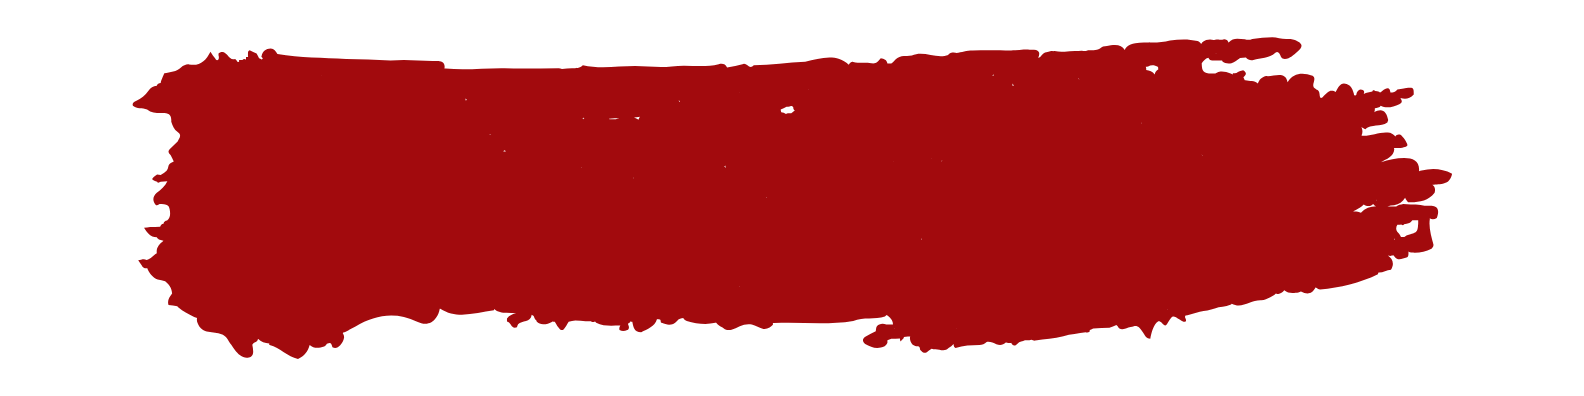
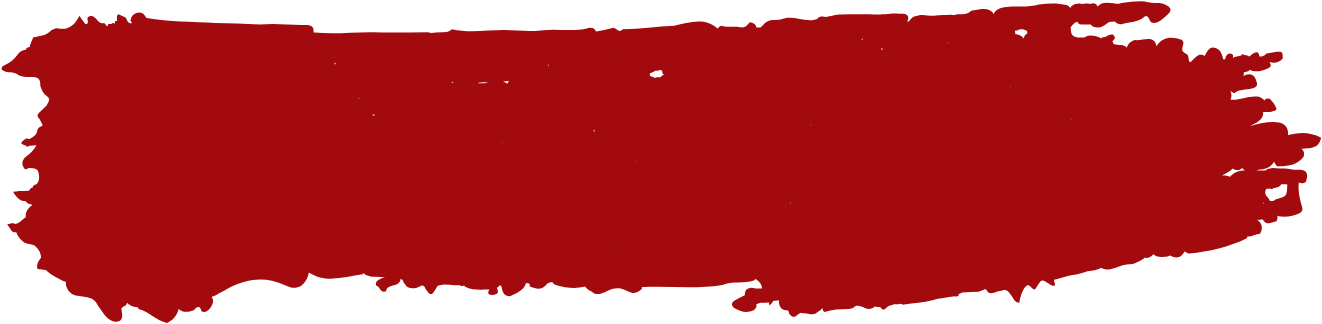
initial layout #4

Changed region(s): [[0.0, 0.0, 1.0, 1.0], [0.4962, 0.216, 0.5272, 0.2469]]

diff --git a/index.html b/index.html
@@ -37,7 +37,7 @@
         </div>
         <h1>MAKE YOUR BODY</h1>
         <h1>FIT & PERFECT</h1>
-        <button class="button-classes">OUR CLASSES <img src="assets/icons/rightChevron.png" alt="rightArrow" class="right-arrow"></button>
+        <button class="button-classes">OUR CLASSES<img src="assets/icons/rightChevron.png" alt="rightArrow" class="right-arrow"></button>
     </div>
     <img src="assets/mainBanner.jpg" alt="Woman Boxing" class="main-banner-img">
 </div>
@@ -55,11 +55,25 @@
     </div>
     <div class="card">
         <img src="assets/icons/nutrition.png" alt="nutrition" class="card-icon">
-        <h3 class="card-title">NUTRITION</h3>
+        <h4 class="card-title">NUTRITION</h4>
         <p class="card-text">Our team will work with you to create a personalized meal pian that helps you reach your specific health goals.</p>
     </div>
 </div>
 
+<div class="about-container">
+    <div class="about-left">
+        <div class="title">
+            <h2 class="title-text-stroke-2">OUR MISSION</h2>
+            <img src="assets/brushStrokes/7.png" alt="white stroke" class="brush-stroke-2">
+        </div>
+        <h2 class="about-secondary-title">Take Your Health And Body To Next Level</h2>
+        <p class="about-text">Take your health and body to the next level with our comprehensive program designed to help you reach your fitness goals.</p>
+        <button class="button-classes">TAKE A TOUR<img src="assets/icons/rightChevron.png" alt="rightArrow" class="right-arrow"></button>
+    </div>
+    <div class="about-right">
+        <img src="assets/runningMan2.png" alt="running man" class="running-man-img">
+    </div>
+</div>
 
 
 <footer></footer>

diff --git a/styles/index.css b/styles/index.css
@@ -90,7 +90,7 @@ li:hover {
 }
 
 .brush-stroke-1 {
-    width: 10rem;
+    width: 12rem;
     position: relative;
     margin-bottom: 0.7rem;
 }
@@ -104,6 +104,8 @@ li:hover {
     z-index: 9;
     width: 100%;
     align-self: center;
+    font-weight: bold;
+    letter-spacing: 0.1rem;
 }
 
 h1 {
@@ -174,4 +176,57 @@ h1:first-of-type {
 
 .card-text {
     font-size: 0.9rem;
+}
+
+.about-container {
+    display: flex;
+    flex-direction: row;
+    align-items: center;
+    justify-content: center;
+    width: 100%;
+    height: 100vh;
+
+}
+
+.about-left {
+    width: 25rem;
+}
+
+.about-right {
+    width: 25rem;
+}
+
+.brush-stroke-2 {
+    width: 10rem;
+    position: relative;
+    margin-bottom: 0.7rem;
+}
+
+.title-text-stroke-2 {
+    font-size: 0.8rem;
+    margin-left: 1.3rem;
+    margin-bottom: 0.7rem;
+    color: white;
+    position: absolute;
+    z-index: 9;
+    align-self: center;
+    font-weight: bold;
+    letter-spacing: 0.1rem;
+}
+
+.about-secondary-title {
+    font-size: 1.7rem;
+    letter-spacing: 0.05rem;
+    font-weight: bold;
+    margin-top: 0.7rem;
+    margin-bottom: 1rem;
+
+}
+
+.running-man-img {
+    height: 40rem;
+}
+
+.about-text {
+    line-height: 1.6rem;
 }
